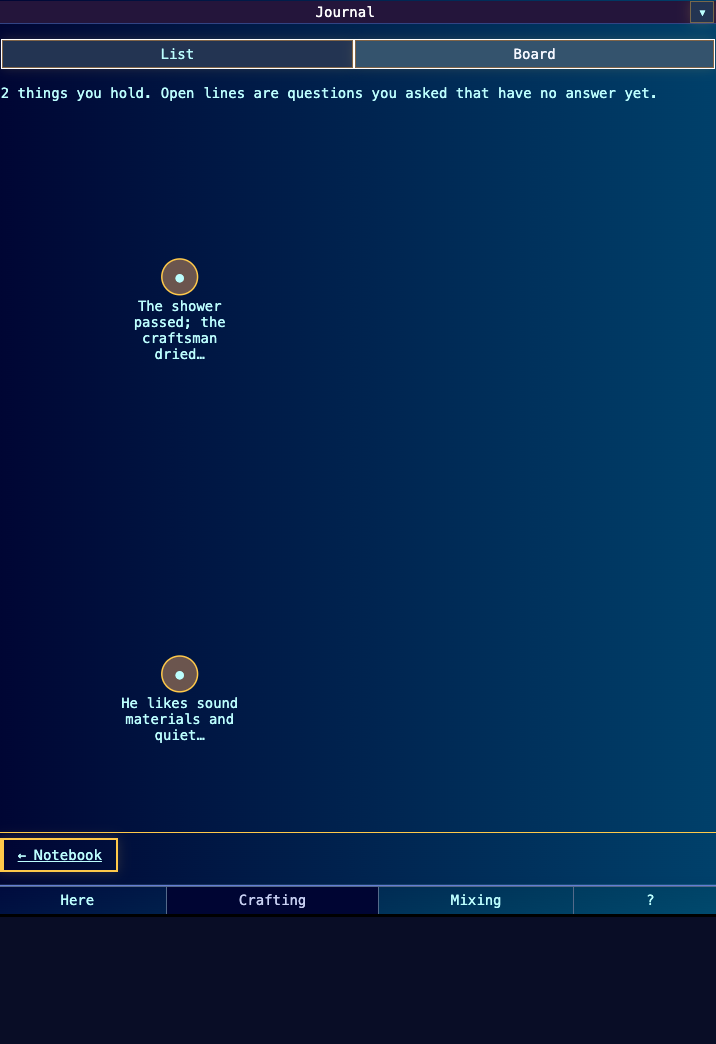
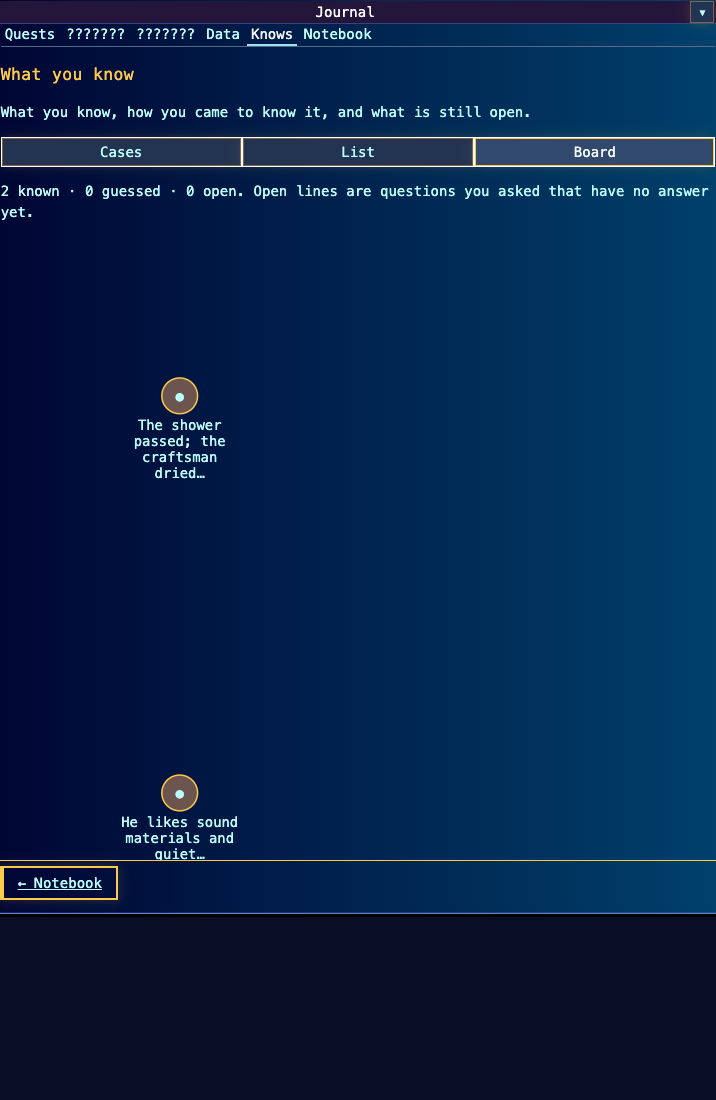
Knowledge representation round 2: cases view by default (ledger and case-board idea), glance line, Knows change badge, depth and clue counts, board node roles; round 2 review in KNOWLEDGE.md
Proposal (AD32). Focused tests 28 pass; 1920x1080 capture 0 page errors on bundle ebded7d99cc7. The full suite is left to the coordinator's merge run.

(cherry picked from commit 2c70c1dc1efeaca5950990d823bfd2ea072ffba0)

Changed region(s): [[0.0, 0.0, 1.0, 0.2146], [0.0, 0.613, 1.0, 0.8889], [0.1844, 0.2452, 0.3073, 0.4598]]

diff --git a/src/knowledge_view.js b/src/knowledge_view.js
@@ -46,7 +46,7 @@ export function knowsRows(observer, {clock} = {}) {
     const knowledge = observer.knowledge(), facts = observer.facts();
     const rows = Object.entries(knowledge).map(([key, entry]) => {
         const certainty = certaintyOf(entry);
-        return {key, text: entry.value, certainty, certaintyLabel: CERTAINTY[certainty].label, provenance: provenanceOf(entry),
+        return {key, text: entry.value, certainty, certaintyLabel: CERTAINTY[certainty].label, provenance: provenanceOf(entry), depth: entry.stage, method: entry.basis?.method || '', caseId: caseOf(key),
             at: entry.at, when: whenText(entry.at, clock), uncertainty: entry.basis?.uncertainty || '', evidence: (entry.basis?.evidence || []).filter(k => Object.hasOwn(knowledge, k))};
     });
     // Intentions are the seat's own facts (cast_inference_adapter): one row per chain still open.
@@ -56,9 +56,59 @@ export function knowsRows(observer, {clock} = {}) {
         const thoughts = Object.entries(knowledge).filter(([key]) => key.startsWith(`inference.${m[1]}.`)).sort((a, b) => b[1].at - a[1].at);
         const latest = thoughts[0];
         rows.push({key: `intent:${m[1]}`, text: latest ? latest[1].value : 'A thought you have not finished', certainty: status === 'considering' ? 'open' : 'guessed',
-            certaintyLabel: INTENT[status].label, provenance: 'Your intention', intent: status, at: latest?.[1].at, when: whenText(latest?.[1].at, clock), uncertainty: '', evidence: latest ? [latest[0]] : []});
+            certaintyLabel: INTENT[status].label, provenance: 'Your intention', intent: status, caseId: `inference.${m[1]}`, at: latest?.[1].at, when: whenText(latest?.[1].at, clock), uncertainty: '', evidence: latest ? [latest[0]] : []});
     }
     return rows.sort((a, b) => (b.at ?? -1) - (a.at ?? -1) || a.key.localeCompare(b.key));
+}
+
+// A case is one line of thought (inference chain) or one asked question (divination query). The
+// key prefix is the adapters' own address, so a later book adds cases without new code.
+function caseOf(key) {
+    const m = /^(inference|divination)\.([^.]+)\./.exec(key);
+    return m ? `${m[1]}.${m[2]}` : '';
+}
+const ROLE_ORDER = {known: 0, guessed: 1, open: 2};
+const rank = row => row.intent ? 3 : ROLE_ORDER[row.certainty];
+
+/**
+ * Round 2 (proposal): rows gathered into cases, the Obra Dinn ledger and case-board idea in list
+ * form. Each case reads clues, then readings, then open questions, then the plan. A clue a reading
+ * cites joins the first case that cites it; everything else stays under "Other things you know".
+ * options: {labels: {caseId: label}} from a host that knows its chain labels.
+ */
+export function knowsCases(rows, {labels = {}} = {}) {
+    const cases = new Map(), placed = new Set();
+    const open = id => { if (!cases.has(id)) cases.set(id, {id, rows: []}); return cases.get(id); };
+    for (const row of rows) if (row.caseId) { open(row.caseId).rows.push(row); placed.add(row.key); }
+    const byKey = new Map(rows.map(row => [row.key, row]));
+    for (const c of cases.values()) for (const row of [...c.rows]) for (const key of row.evidence) {
+        if (placed.has(key) || !byKey.has(key)) continue;
+        c.rows.push(byKey.get(key)); placed.add(key);
+    }
+    const list = [...cases.values()].map(c => {
+        c.rows.sort((a, b) => rank(a) - rank(b) || (a.at ?? 0) - (b.at ?? 0));
+        const method = c.rows.find(r => r.method)?.method;
+        const intent = c.rows.find(r => r.intent)?.intent;
+        const openCount = c.rows.filter(r => r.certainty === 'open' && !r.intent).length;
+        const status = intent === 'active' ? 'You mean to act' : openCount ? `${openCount} open` : intent === 'considering' ? 'Still thinking it over' : intent === 'postponed' ? 'Set aside' : c.rows.some(r => r.certainty === 'guessed') ? 'A reading, unconfirmed' : 'Settled';
+        const reading = [...c.rows].reverse().find(r => r.certainty === 'guessed' && !r.intent);
+        const label = labels[c.id] || (c.id.startsWith('divination.') ? `Asked by ${method || 'a rite'}` : `Thinking about: ${short(reading?.text || c.rows[0].text)}`);
+        const latest = Math.max(...c.rows.map(r => r.at ?? -1));
+        return {id: c.id, label, status, rows: c.rows, latest};
+    }).sort((a, b) => b.latest - a.latest);
+    const loose = rows.filter(row => !placed.has(row.key));
+    if (loose.length) list.push({id: 'loose', label: 'Other things you know', status: `${loose.length} ${loose.length === 1 ? 'line' : 'lines'}`, rows: loose, latest: -1});
+    return list;
+}
+
+/** A case line: a plan row names the plan only, since its reading sits just above it. */
+export const caseLine = row => row.intent ? `${row.certaintyLabel}.` : knowsLine(row);
+
+/** The compact glance line (UR42): counts in words, for the tab status and a later nav badge. */
+export function knowsGlance(rows) {
+    const n = id => rows.filter(r => r.certainty === id && !r.intent).length, plans = rows.filter(r => r.intent === 'active').length;
+    if (!rows.length) return 'Nothing learned yet.';
+    return [`${n('known')} known`, `${n('guessed')} guessed`, `${n('open')} open`, ...(plans ? [`${plans} ${plans === 1 ? 'plan' : 'plans'}`] : [])].join(' · ');
 }
 
 /** Rows grouped by certainty, each group keeping newest first. */
@@ -68,8 +118,9 @@ export function knowsGroups(rows) {
 }
 
 /** One plain line per row: the text form the list shows and the board's description shares (UR37). */
+const DEPTH = {seen: '', interpreted: '', understood: 'understood'};
 export function knowsLine(row) {
-    return `${row.certaintyLabel}: ${row.text} (${row.provenance}${row.when ? `, ${row.when}` : ''}${row.uncertainty ? `; doubt: ${row.uncertainty}` : ''})`;
+    return `${row.certaintyLabel}${row.certainty === 'known' && DEPTH[row.depth] ? ` (${DEPTH[row.depth]})` : ''}: ${row.text} (${row.provenance}${row.evidence?.length && !row.intent ? `, from ${row.evidence.length} ${row.evidence.length === 1 ? 'clue' : 'clues'}` : ''}${row.when ? `, ${row.when}` : ''}${row.uncertainty ? `; doubt: ${row.uncertainty}` : ''})`;
 }
 
 const short = text => text.length <= LABEL_MAX ? text : `${text.slice(0, LABEL_MAX - 1).replace(/\s+\S*$/, '')}…`;
@@ -87,7 +138,7 @@ export function knowledgeBoardSpec(rows, {id = 'knows-board', title = 'What you 
         const shown = column.rows.slice(0, BOARD_COLUMN);
         shown.forEach((row, i) => {
             const nodeId = `k${nodes.length}`; ids.set(row.key, nodeId);
-            nodes.push({id: nodeId, label: short(row.intent ? `${INTENT[row.intent].verb}: ${row.text}` : row.text), state: row.intent ? INTENT[row.intent].figure : CERTAINTY[row.certainty].figure, at: [column.x, spread(i, shown.length)]});
+            nodes.push({id: nodeId, label: short(row.intent ? `${INTENT[row.intent].verb}: ${row.text}` : row.text), role: row.intent ? 'plan' : {known: 'clue', guessed: 'reading', open: 'question'}[row.certainty], state: row.intent ? INTENT[row.intent].figure : CERTAINTY[row.certainty].figure, at: [column.x, spread(i, shown.length)]});
         });
         if (column.rows.length > shown.length) notes.push({text: `${column.rows.length - shown.length} more ${column.x < 0 ? 'known' : column.x > 0 ? 'open' : 'guessed'} lines are in the list.`});
     }
@@ -104,5 +155,5 @@ export function knowledgeBoardSpec(rows, {id = 'knows-board', title = 'What you 
 /** Everything the home needs from one state read. */
 export function knowledgeView(observer, options = {}) {
     const rows = knowsRows(observer, options);
-    return {rows, groups: knowsGroups(rows), board: knowledgeBoardSpec(rows, options)};
+    return {rows, glance: knowsGlance(rows), cases: knowsCases(rows, options), groups: knowsGroups(rows), board: knowledgeBoardSpec(rows, options)};
 }

diff --git a/src/knowledge_home.js b/src/knowledge_home.js
@@ -1,10 +1,11 @@
 import {registerDomain} from './domain_registry.js';
 import {readPort, whenPortsReady} from './ui_ports.js';
-import {node, visibleRenderer, plural} from './reference_kit.js';
+import {node, visibleRenderer} from './reference_kit.js';
 import {expandWorkspaceModule} from './workspace_layout.js';
 import {observerView} from './observer_view.js';
 import {renderFigure, figureText} from './ui/figure.js';
-import {knowledgeView, knowsLine} from './knowledge_view.js';
+import {knowledgeView, knowsLine, caseLine} from './knowledge_view.js';
+import {registerChangeCounter} from './change_badges.js';
 
 // LTU4: the Journal's Knows tab. It sits beside Quests and Anthology in the existing Journal tab
 // bar, so the native tab switcher and active-button styling apply unchanged. The list is the text
@@ -19,34 +20,50 @@ function mountKnowsTab() {
     const box = node('section', null, {id: 'knows_box_div', class: 'knows-box', 'aria-label': 'What you know'});
     box.style.display = 'none';
     const views = node('div', null, {role: 'group', 'aria-label': 'Knows view', class: 'flex_wrap'});
-    const listButton = node('button', 'List', {type: 'button', class: 'journal_control_button active_selection_button', 'aria-pressed': 'true'});
+    const casesButton = node('button', 'Cases', {type: 'button', class: 'journal_control_button active_selection_button', 'aria-pressed': 'true'});
+    const listButton = node('button', 'List', {type: 'button', class: 'journal_control_button', 'aria-pressed': 'false'});
     const boardButton = node('button', 'Board', {type: 'button', class: 'journal_control_button', 'aria-pressed': 'false'});
-    views.append(listButton, boardButton);
+    views.append(casesButton, listButton, boardButton);
     const status = node('p', '', {role: 'status', 'aria-live': 'polite', class: 'reference-empty'});
-    const list = node('div', null, {class: 'knows-list'}), board = node('div', null, {class: 'knows-board'});
-    board.hidden = true;
+    const cases = node('div', null, {class: 'knows-cases'}), list = node('div', null, {class: 'knows-list'}), board = node('div', null, {class: 'knows-board'});
+    list.hidden = true; board.hidden = true;
     const people = node('button', 'Open People', {type: 'button', title: 'What you know about each person is kept in the People panel'});
     people.onclick = () => expandWorkspaceModule('known-people');
-    box.append(node('h3', 'What you know'), views, status, list, board, people);
+    box.append(node('h3', 'What you know'), node('p', 'What you know, how you came to know it, and what is still open.'), views, status, cases, list, board, people);
     const notebook = document.getElementById('journal_show_notebook');
     bar.insertBefore(tab, notebook || null);
     content.append(box);
 
-    let mode = 'list';
+    let mode = 'cases';
     const setMode = next => {
-        mode = next; list.hidden = mode !== 'list'; board.hidden = mode !== 'board';
-        for (const [button, id] of [[listButton, 'list'], [boardButton, 'board']]) { button.setAttribute('aria-pressed', String(mode === id)); button.classList.toggle('active_selection_button', mode === id); }
+        mode = next; cases.hidden = mode !== 'cases'; list.hidden = mode !== 'list'; board.hidden = mode !== 'board';
+        for (const [button, id] of [[casesButton, 'cases'], [listButton, 'list'], [boardButton, 'board']]) { button.setAttribute('aria-pressed', String(mode === id)); button.classList.toggle('active_selection_button', mode === id); }
         render(true);
     };
-    listButton.onclick = () => setMode('list'); boardButton.onclick = () => setMode('board');
+    casesButton.onclick = () => setMode('cases'); listButton.onclick = () => setMode('list'); boardButton.onclick = () => setMode('board');
     tab.onclick = () => { for (const child of content.children) child.style.display = 'none'; box.style.display = 'block'; render(true); };
 
     const render = visibleRenderer(box, () => {
         const state = readPort('expansion');
-        if (!state) return {mode, rows: [], groups: [], board: null};
+        if (!state) return {mode, rows: [], groups: [], cases: [], glance: '', board: null};
         return {mode, ...knowledgeView(observerView(state), {clock: state.clock})};
     }, view => {
-        status.textContent = view.rows.length ? `${plural(view.rows.length, 'thing')} you hold. Open lines are questions you asked that have no answer yet.` : 'Nothing learned yet. Look around, ask, read or think, and it is kept here.';
+        status.textContent = view.rows.length ? `${view.glance}. Open lines are questions you asked that have no answer yet.` : 'Nothing learned yet. Look around, ask, read or think, and it is kept here.';
+        cases.replaceChildren();
+        for (const c of view.cases) {
+            const section = node('section', null, {class: 'knows-case', 'data-case': c.id});
+            section.style.marginBlock = 'var(--ui-space-2)';
+            const ul = node('ul');
+            for (const row of c.rows) {
+                const li = node('li', caseLine(row));
+                li.dataset.certainty = row.certainty;
+                ul.append(li);
+            }
+            const h = node('h4', `${c.label} · `);
+            h.append(node('span', c.status, {class: 'knows-case-status'}));
+            section.append(h, ul);
+            cases.append(section);
+        }
         list.replaceChildren();
         for (const group of view.groups) {
             if (!group.rows.length) continue;
@@ -71,3 +88,7 @@ function mountKnowsTab() {
 
 let home = null;
 registerDomain({id: 'knowledge-home', deps: [], initialState: () => null, refresh: () => home?.render(false), panels: [() => { home = mountKnowsTab(); }]});
+
+// GU8: a count on the Knows route of lines learned since the tab was last on screen.
+registerChangeCounter('records:knows', {read: () => { const state = readPort('expansion'); return state ? Object.keys(observerView(state).knowledge()) : null; },
+    showing: () => !!home?.box.checkVisibility?.()});

diff --git a/tests/knowledge_view.test.js b/tests/knowledge_view.test.js
@@ -3,7 +3,7 @@ import assert from 'node:assert/strict';
 import {createDom} from '../scripts/headless/dom.mjs';
 import {renderFigure, figureText, validateFigureSpec} from '../src/ui/figure.js';
 import {observerView} from '../src/observer_view.js';
-import {knowledgeView, knowsLine, knowsRows} from '../src/knowledge_view.js';
+import {knowledgeView, knowsLine, knowsRows, knowsCases, caseLine, knowsGlance} from '../src/knowledge_view.js';
 import {knowledgeFixtureState, SEALED_LINE, KNOWLEDGE_FIXTURE} from '../src/ui/preview/fixtures/knowledge.js';
 
 const view = state => knowledgeView(observerView(state), {clock: state.clock});
@@ -73,4 +73,29 @@ test('a long column is capped on the board and points to the list', () => {
     assert.equal(v.rows.length, 9);
     assert.equal(v.board.nodes.length, 6);
     assert.match(figureText(v.board), /3 more known lines are in the list/);
+});
+
+test('cases gather a line of thought with its clues, readings, open questions and plan in that order', () => {
+    const v = view(knowledgeFixtureState());
+    assert.equal(v.glance, '4 known · 3 guessed · 1 open · 1 plan');
+    const bell = v.cases.find(c => c.id === 'inference.bell');
+    assert.deepEqual(bell.rows.map(r => r.certainty), ['known', 'known', 'guessed', 'guessed']);
+    assert.equal(bell.status, 'You mean to act');
+    assert.match(bell.label, /^Thinking about: Someone with a key/);
+    assert.equal(caseLine(bell.rows.at(-1)), 'You mean to act on it.');
+    assert.equal(v.cases.find(c => c.id === 'divination.ledger').status, '1 open');
+    assert.equal(v.cases.find(c => c.id === 'divination.tide').label, 'Asked by water bowl');
+    const loose = v.cases.at(-1);
+    assert.equal(loose.id, 'loose');
+    assert.deepEqual(loose.rows.map(r => r.key), ['harbor.bell.silent']);
+    // Every row lands in exactly one case, so the case view hides nothing the list shows.
+    assert.equal(v.cases.flatMap(c => c.rows).length, v.rows.length);
+    assert.ok(!JSON.stringify(v.cases).includes(SEALED_LINE));
+});
+
+test('a host can name its cases; an empty seat has one plain glance line', () => {
+    const rows = knowsRows(observerView(knowledgeFixtureState()), {});
+    assert.equal(knowsCases(rows, {labels: {'inference.bell': 'Who silenced the bell'}}).find(c => c.id === 'inference.bell').label, 'Who silenced the bell');
+    assert.equal(knowsGlance([]), 'Nothing learned yet.');
+    assert.match(knowsLine(rows.find(r => r.key === 'inference.bell.someone')), /from 2 clues/);
 });

diff --git a/docs/representations/KNOWLEDGE.md b/docs/representations/KNOWLEDGE.md
@@ -106,3 +106,158 @@ Known limits: the board spreads few nodes over the full height, and in the Journ
 
 Next slice: KR6 doubt ledger on the inference adapter (name a test act per guessed line), then
 KR3 fragment cards grouped by `basis.queryId`.
+
+## Round 2 (2026-10-30, proposal)
+
+Run against the [round 2 brief](../gm/dispatch/ui-refactor-wave-2026-10-29/ROUND2_BRIEF.md).
+Everything here, round 1 included, is the current best draft and open to replacement with a
+reason (AD45).
+
+### K2-1 How other games do it
+
+Game claims are labelled **known** (from play or published docs) or **inferred**. The adapted
+ideas are mechanisms, not looks.
+
+| Game | What the player sees | Makes easy | Costs | Idea taken |
+|---|---|---|---|---|
+| Return of the Obra Dinn | A ledger: one page per event, fates filled in by the player, confirmed in threes (known) | Certainty arrives in batches, so guessing is safe and a confirmation feels earned | Strict one-answer truth; no room for partial readings | **Cases as ledger pages**: each line of thought is a page, clues to readings to plan (done) |
+| Shadows of Doubt | A pinboard per case, notes and string links the player draws, evidence items with sources (known) | Spatial memory of a case; the player owns the links | Gets messy; the player maintains it | **Board stays, but per case and optional**; links come from `basis.evidence`, not hand string (round 1 board) |
+| Disco Elysium | Thought cabinet: thoughts researched over time, then internalised with effects (known) | A thought has a lifecycle and a cost while forming | Effects hidden until done | **Intention lifecycle** (considering, active, set aside) shown as the case status (done) |
+| Heaven's Vault | A lexicon of glyph guesses, each marked confirmed or not, refined by reuse (known) | Guesses stay visible and improve with evidence | Slow; needs many uses | **Doubt shown in the line** ("doubt: ...") and "from N clues" (done); confirmation by reuse is LATER |
+| Her Story | Search box over clips; results show just what you searched (known) | Knowledge comes from your own questions | Hard to know what you missed | **Search over Knows** is LATER; open questions already mark what you asked and lack |
+| Proto23 / YAIR baseline | Journal tabs for quests, bestiary, books (known, our code) | Familiar Journal home | Tabs answer "what have I met", not "what do I believe" | Knows joins the Journal tabs rather than a new panel (round 1) |
+
+Abstraction underneath: a **ledger of claims with provenance** (claim, certainty, source,
+time, cites), grouped into **cases**. The same ledger serves appraisal results (character
+sheet), forecasts and assays, so the grammar lives in one export (`CERTAINTY` in
+`src/knowledge_view.js`).
+
+### K2-2 Fresh-player test
+
+A first look at the round 1 tab asked three things: what "Knows" means, what "Guessed" is
+measured against, and why the board had two dots in a tall empty space. Done: an intro sentence
+under the heading, a glance line ("4 known · 3 guessed · 1 open · 1 plan"), cases by default
+so each line sits under what it is about, "from N clues" on readings, and "(understood)" where
+a known line was understood rather than only seen. Terms the player meets: known, guessed,
+open, plan; each says its meaning in the board legend and the status line.
+
+### K2-3 Space, split and density (1920×1080)
+
+The Knows tab sits in the center expanded Journal (about 720 px wide). Density by frequency
+(UR42): the **glance line** is the frequent read; **cases** are the default detail; the **flat
+list** grouped by certainty answers "what is still open across everything"; the **board**
+answers "what led to what" and is the occasional view. One view per question, so the three stay
+separate. LATER: a pinned inspector beside the cases (a clicked line shows its full source chain
+and the acts that could test it) once KR6 lands.
+
+### K2-4 Bars and small signals
+
+A change badge on the Knows nav button counts lines added since the tab was last on screen,
+through the existing `registerChangeCounter` used by Quests. It answers "did I learn something?"
+and is words plus a number (UR37). Certainty chips per line stay words, not colours.
+
+### K2-5 Pop-outs and the desktop app
+
+The board earns a pop-out on a second screen for a long investigation (MDL13: `renderFigure`
+draws into its own node's document). LATER, with the browser fallback unchanged. No
+notification: learning something is already a Reports line from the adapters.
+
+### K2-6 Cheats and insight views
+
+Knowledge or foresight cheats land in the Records tab (CS1), so an insight view is a **fourth
+Knows view marked "Insight"** with a cheat glyph on every line and the cheat's name as the
+provenance ("Shown by <cheat>"). A cheat reveals by **writing knowledge through its own
+mechanism** (an observation with `basis.kind` and a cheat source), so it passes the same seat
+gate and sealed truths still arrive only through their discovery route; a cheat that is itself
+a discovery route for a secret is allowed to reveal it, by that route's rule. The developer
+inspector (raw keys, world facts) stays separate and is never styled as play. LATER, effort
+small once a cheat writes knowledge.
+
+### K2-7 Visual style
+
+Default: list and cases in the Journal's type, which works in Luminous and Neutral at 14 and 21
+px with effects off (no motion used). Alternative, LATER: **paper and ink** for cases (a case as
+a note card with a ruled line per row, ink colour from tokens), which reads better for
+documents (KR5) and worse for dense lists. Proposed in this doc only; no new CSS this round.
+
+### K2-8 Use what we have
+
+Used: `observer_view.js` (seat gate), `figure.js` (board), `reference_kit.js` (`node`,
+`visibleRenderer`), the Journal tab bar and nav routes, `change_badges.js`. Not used yet:
+`scene_card.js` fits KR3 divination fragments and RPX8 dreams (one card per rite with
+"seen in the bowl" provenance), so no new shape is needed for them.
+
+### K2-9 Unconventional option
+
+**The case as a conversation with yourself**: each case renders as a short inner dialogue in
+the character's voice ("The rope was cut clean. Ostra swears the tower was locked. So someone
+had a key, unless the lock was picked."), generated from the same rows by a template, later by
+the local-AI prose pass. Worth a later slice: it makes inference feel like thinking, and the
+row list stays as its text form.
+
+### K2-10 Audit gaps
+
+- Other seats: the adapter is seat-neutral, reading the observer; a bystander with few lines gets the
+  same view with fewer cases. Not yet shown with a non-lead fixture in the browser.
+- Empty and error states: empty state in words; an error state has nothing to report, since the view is a projection.
+- Persistence: none. Performance: one render per visible refresh, nodes bounded by row count;
+  the board caps six per column. Large saves (hundreds of lines) need paging: LATER.
+- Accessibility: buttons with `aria-pressed`, status `role="status"`, text form for the board.
+  Keyboard: the nav route has Alt+F. Not yet checked at 21 px.
+
+### K2-11 to K2-21
+
+- **Prior implementations (K2-11):** `known_things.js` is the "what you have met" sibling;
+  Knows is "what you believe". They stay separate tabs with distinct questions.
+- **Open for improvement (K2-12):** known limits are the board spacing for few nodes, 40-char
+  board labels, no search, and case labels guessed from text when a host gives none. The
+  likely next refactor passes chain labels from `castInferenceCommands` as `labels`.
+- **Flourish (K2-13):** a soft settle glow on a line when it arrives, bound to the new row,
+  off under effects off and reduced (UR38). LATER, reusing `settled_text_effects.js`.
+- **Reports and center (K2-14):** proposed Reports line shape "◇ Learned: <text>" and
+  "◆ Worked out: <text> (from 2 clues)" with a link to the Knows case. The Reports look stays
+  with the time session.
+- **Fold into existing UI (K2-16):** done by joining the Journal tab bar and nav. Proposal for
+  the coordinator: the People panel's "what you know about them" could read the same ledger
+  filtered by subject, so the two never disagree (UR74).
+- **Later volumes (K2-17):** cases key on adapter addresses (`inference.<chain>`,
+  `divination.<query>`), so a later book adds rows, not code. Long series need paging, case
+  archiving (settled cases fold away) and subject filters (person, place, power). The reading
+  outputs were not opened this round; that check is LATER.
+- **Form fits subject (K2-18):** cases are cards (things you act on); certainty groups are a
+  list; what-led-to-what is a graph (the board), drawn in columns, not a ring. The who-knows-what
+  matrix belongs to the relationship web session (people by subject); Knows is one seat's
+  claims, so a matrix fits it worse.
+- **Levels and depth (K2-19):** three depths today: seen, read into (guessed), understood; plus
+  divination status and the evidence count. Later depth: confirmed by N independent sources,
+  contradicted lines (two readings that cannot both hold), and the AP level of the means that
+  produced it (MEANS_AND_APPRAISAL).
+- **Roles, not looks (K2-20):** board nodes carry `role: clue | reading | question | plan`, so a
+  motif pack can restyle them. Flair sketch: in a gaslit city world, cases as a detective's
+  notebook with pencil underlines and a wax-seal glyph for sealed-source lines; in a
+  cultivation world, clues as jade slips and readings as incense smoke that clears as a reading
+  is confirmed.
+- **Draft status (K2-21):** round 1's certainty-grouped list was replaced as the default by
+  cases, because a player asks "what do I know about this?" before "what is open overall?".
+
+### Round 2 actions
+
+- ACT NOW (done): cases view as default, glance line, intro sentence, "from N clues",
+  "(understood)" depth word, plan line without a repeat, board node roles, tests for cases.
+- ACCOUNT FOR NOW: the shared certainty grammar with the character-sheet session (appraise and
+  identify write knowledge rows and reuse `CERTAINTY`); chain labels from the host.
+- LATER/DELEGATE:
+  - Insight view: sonnet, small. Done when a cheat-sourced knowledge row renders with its mark and a sealed fixture still stays hidden.
+  - KR6 doubt ledger with test acts: opus design plus sonnet build, medium. Done when a guessed line offers an act and the act's result confirms or breaks it.
+  - Board pop-out: sonnet, small. Done when it is drawn in the desktop pop-out with the browser fallback unchanged.
+  - Search and paging: sonnet, small. Done when 300 rows stay responsive and are searchable.
+  - 21 px check: haiku, small.
+
+### Round 2 checks
+
+- `node --test tests/knowledge_view.test.js tests/perspective_controls.test.js tests/layout_spec.test.js`: 28 pass. The knowledge file has 8 tests, two of them new for cases and glance.
+- `npm run check:docs`: no findings in this file.
+- `node scripts/capture_knowledge_evidence.mjs`: rebuilt bundle `ebded7d99cc7`, 1920×1080, 0 page errors. The fresh life shows the empty Cases view. After the craftsman route, the Knows nav button reads "Knows, 1 new" (`data-new-count` 1) and Cases shows "2 known · 0 guessed · 0 open" under "Other things you know". New files: `*-cases.png`.
+- Not run, at the coordinator's instruction: the full `npm test`. The coordinator runs it once at merge.
+- Gap: multi-case grouping (lines of thought and rites) is proven by tests and by the gallery board fixture, not in live browser play. The frontier route writes no inference chains; a cast-life route that does needs the private pack.
+- Build: the sonnet subagent built the home's case rendering and capture changes from a bounded brief, and I reviewed the diff. The adapter, tests, badge and doc are mine.
